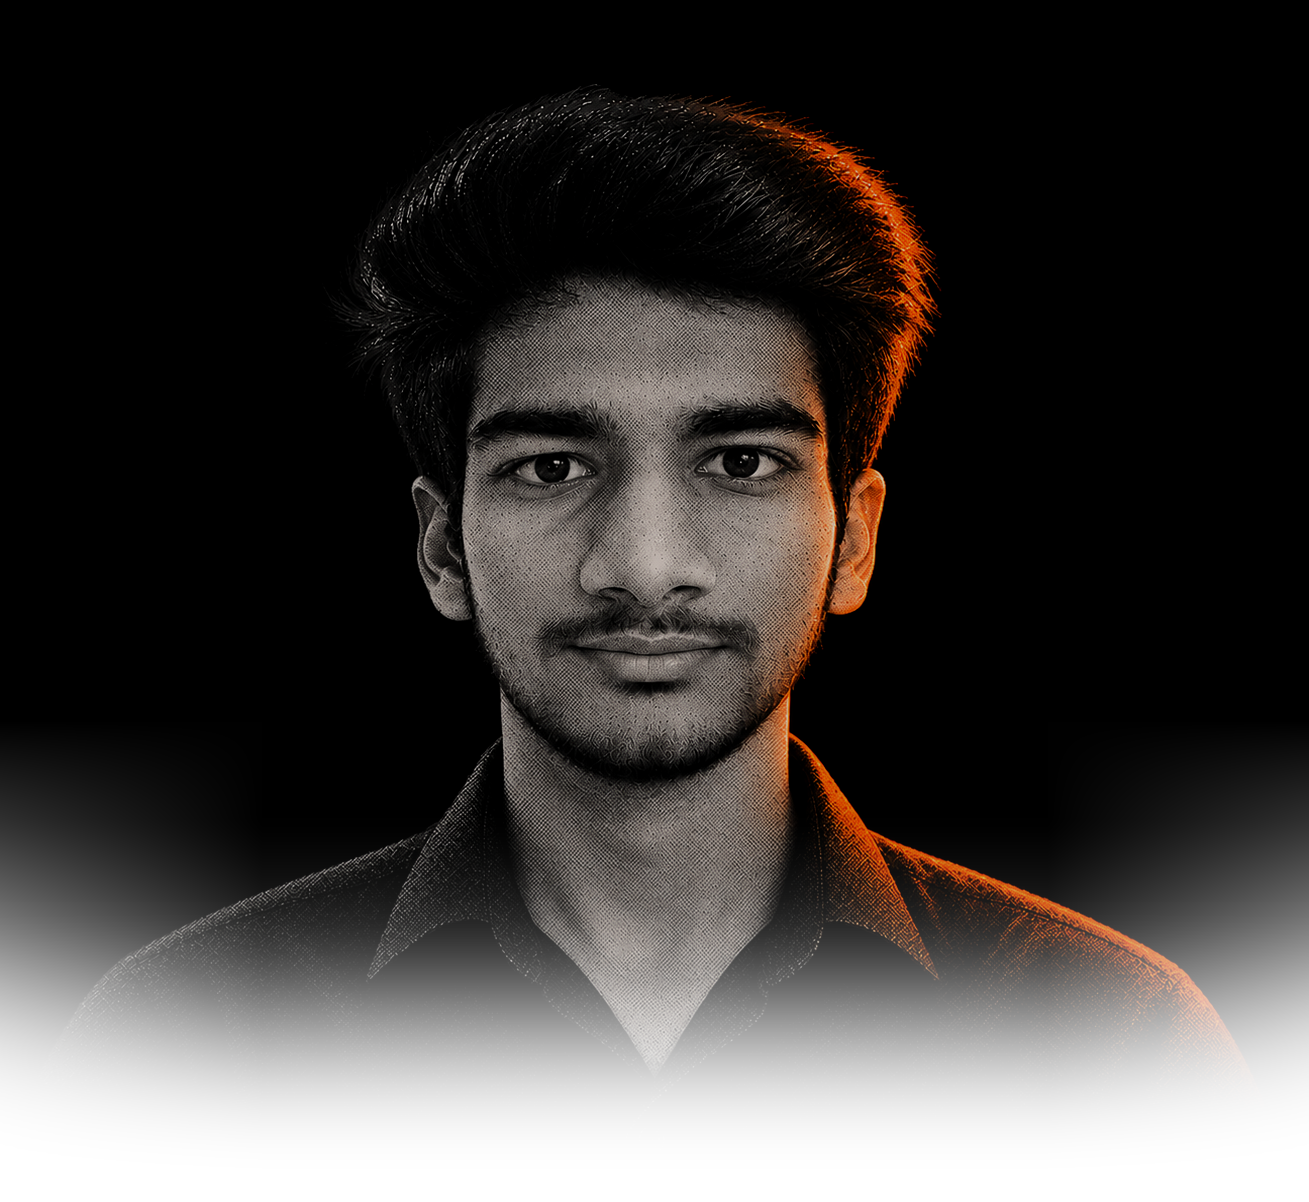
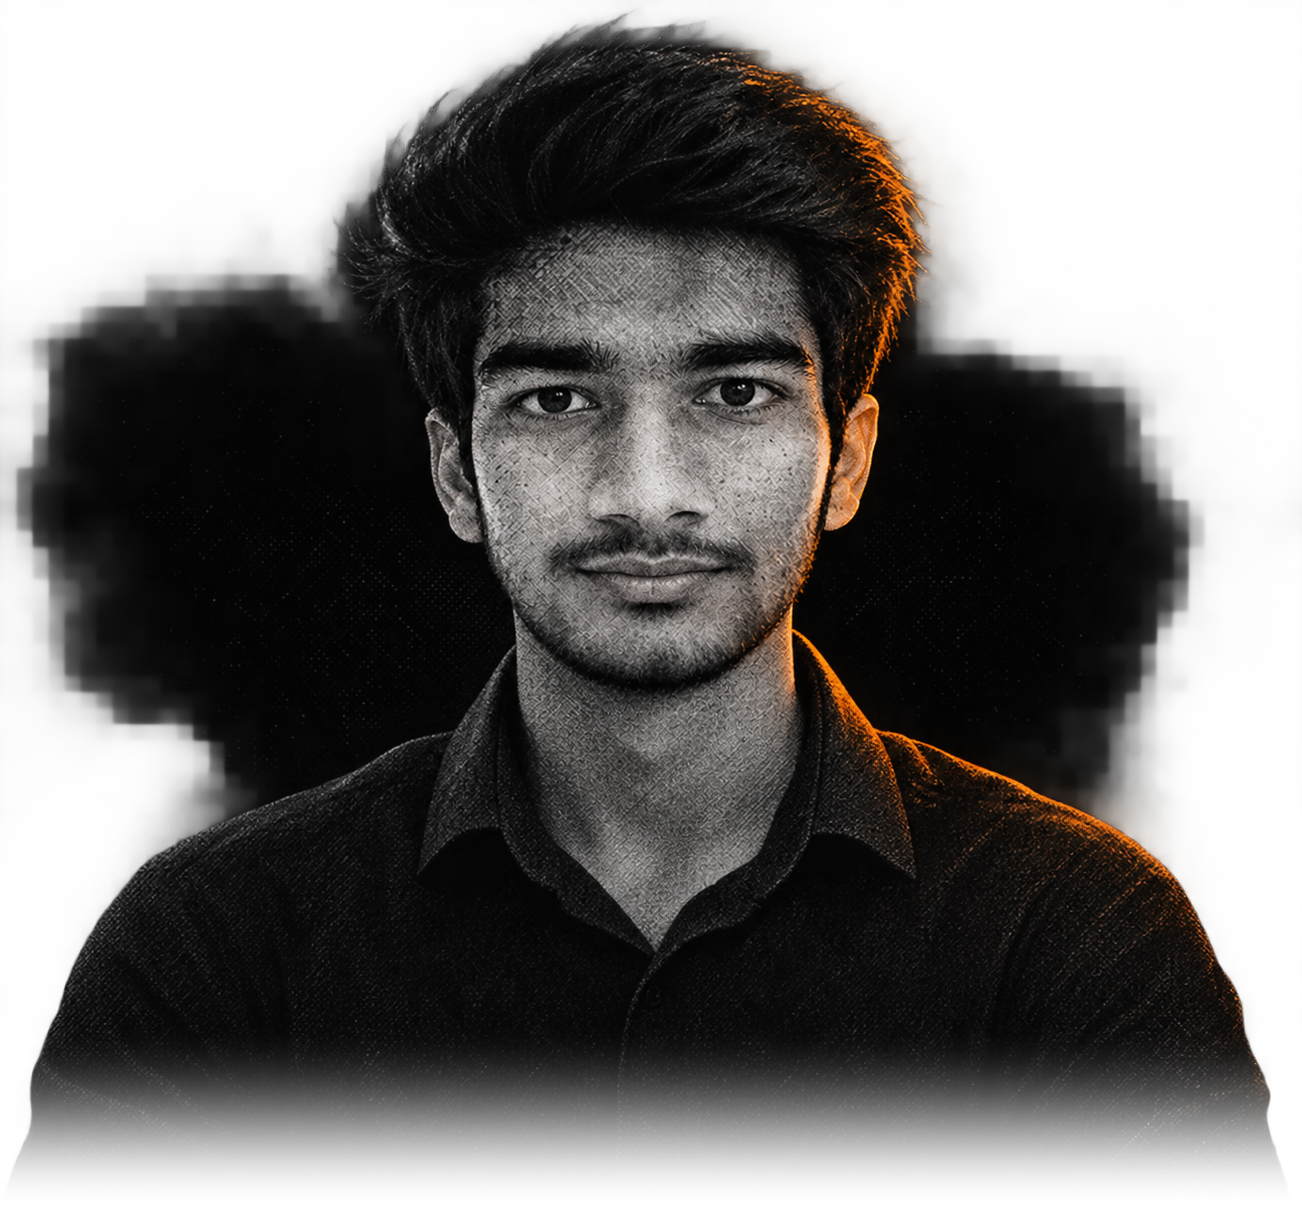
feat(hero): integrate newly uploaded veryfinal portrait asset

diff --git a/src/components/home/HeroPortrait.tsx b/src/components/home/HeroPortrait.tsx
@@ -42,8 +42,8 @@ export default function HeroPortrait() {
         src="/images/omkar-portrait.png"
         alt="Omkar More — Portrait"
         priority
-        width={1309}
-        height={1202}
+        width={1302}
+        height={1208}
         className="w-[clamp(340px,min(75vw,115vh),1220px)] h-auto max-h-[clamp(380px,96vh,890px)] object-contain object-top drop-shadow-[0_24px_65px_rgba(0,0,0,0.95)]"
       />
     </div>
